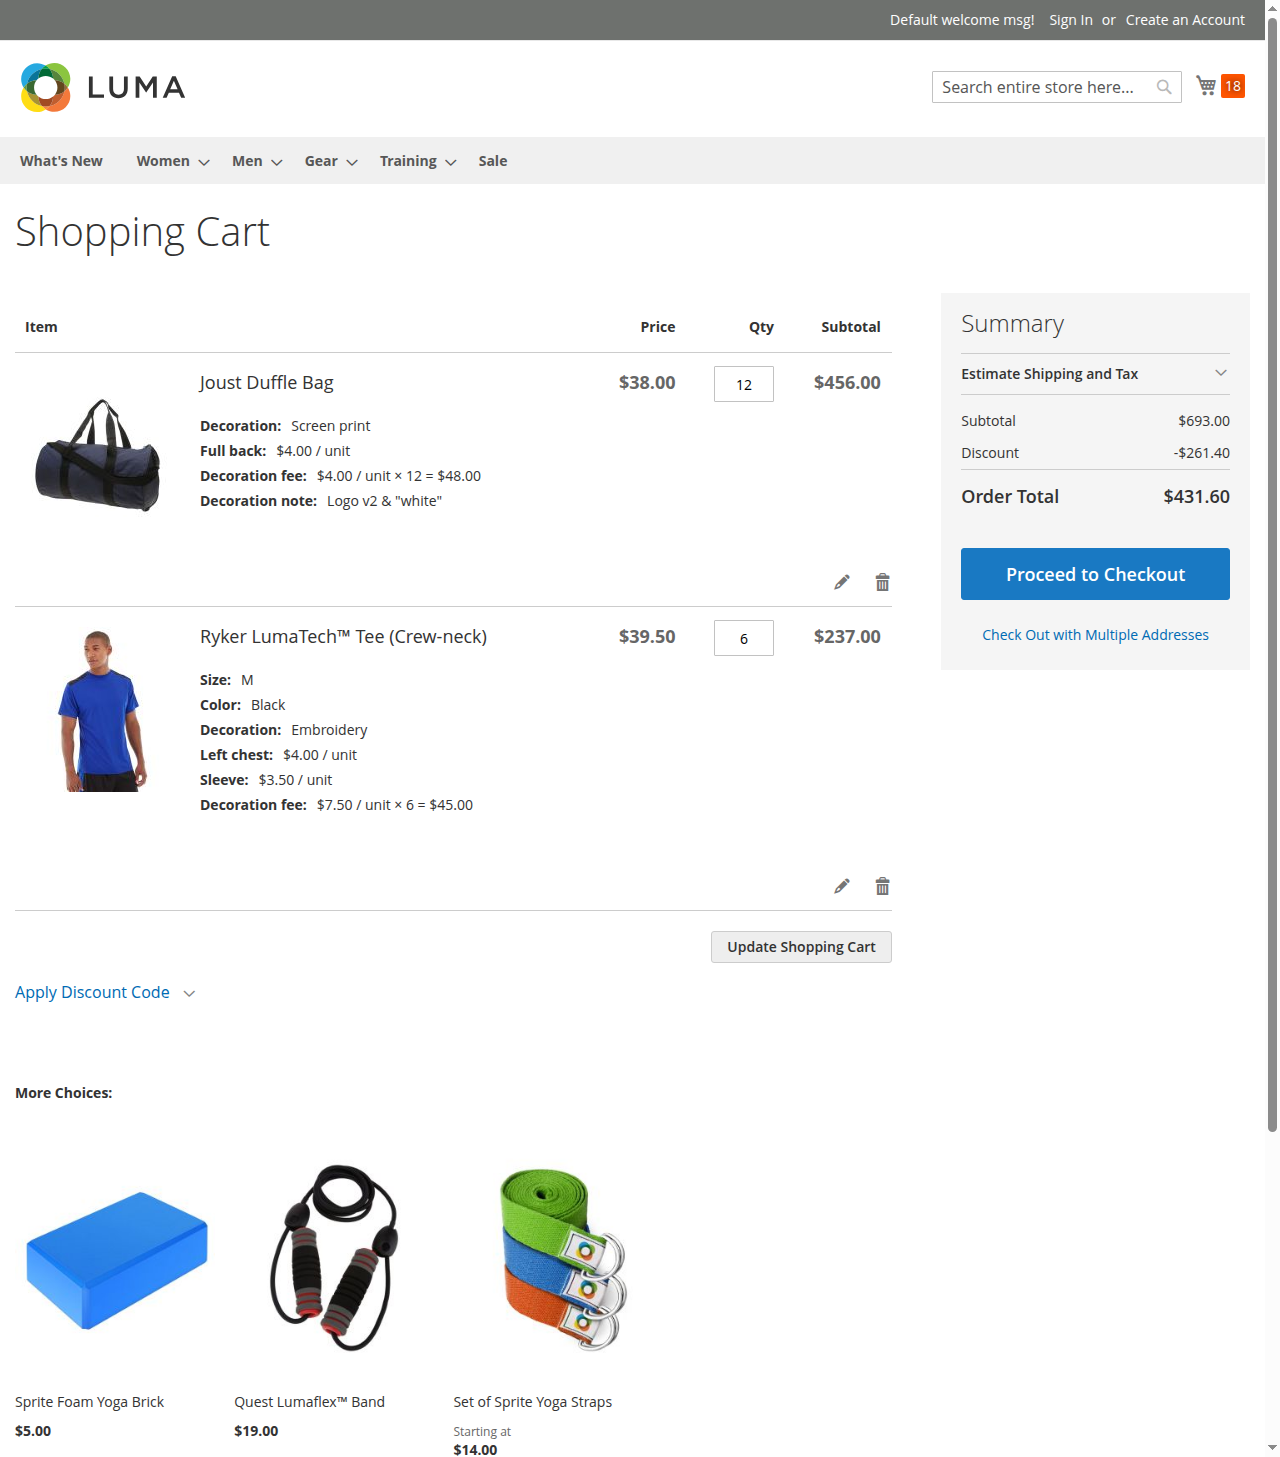
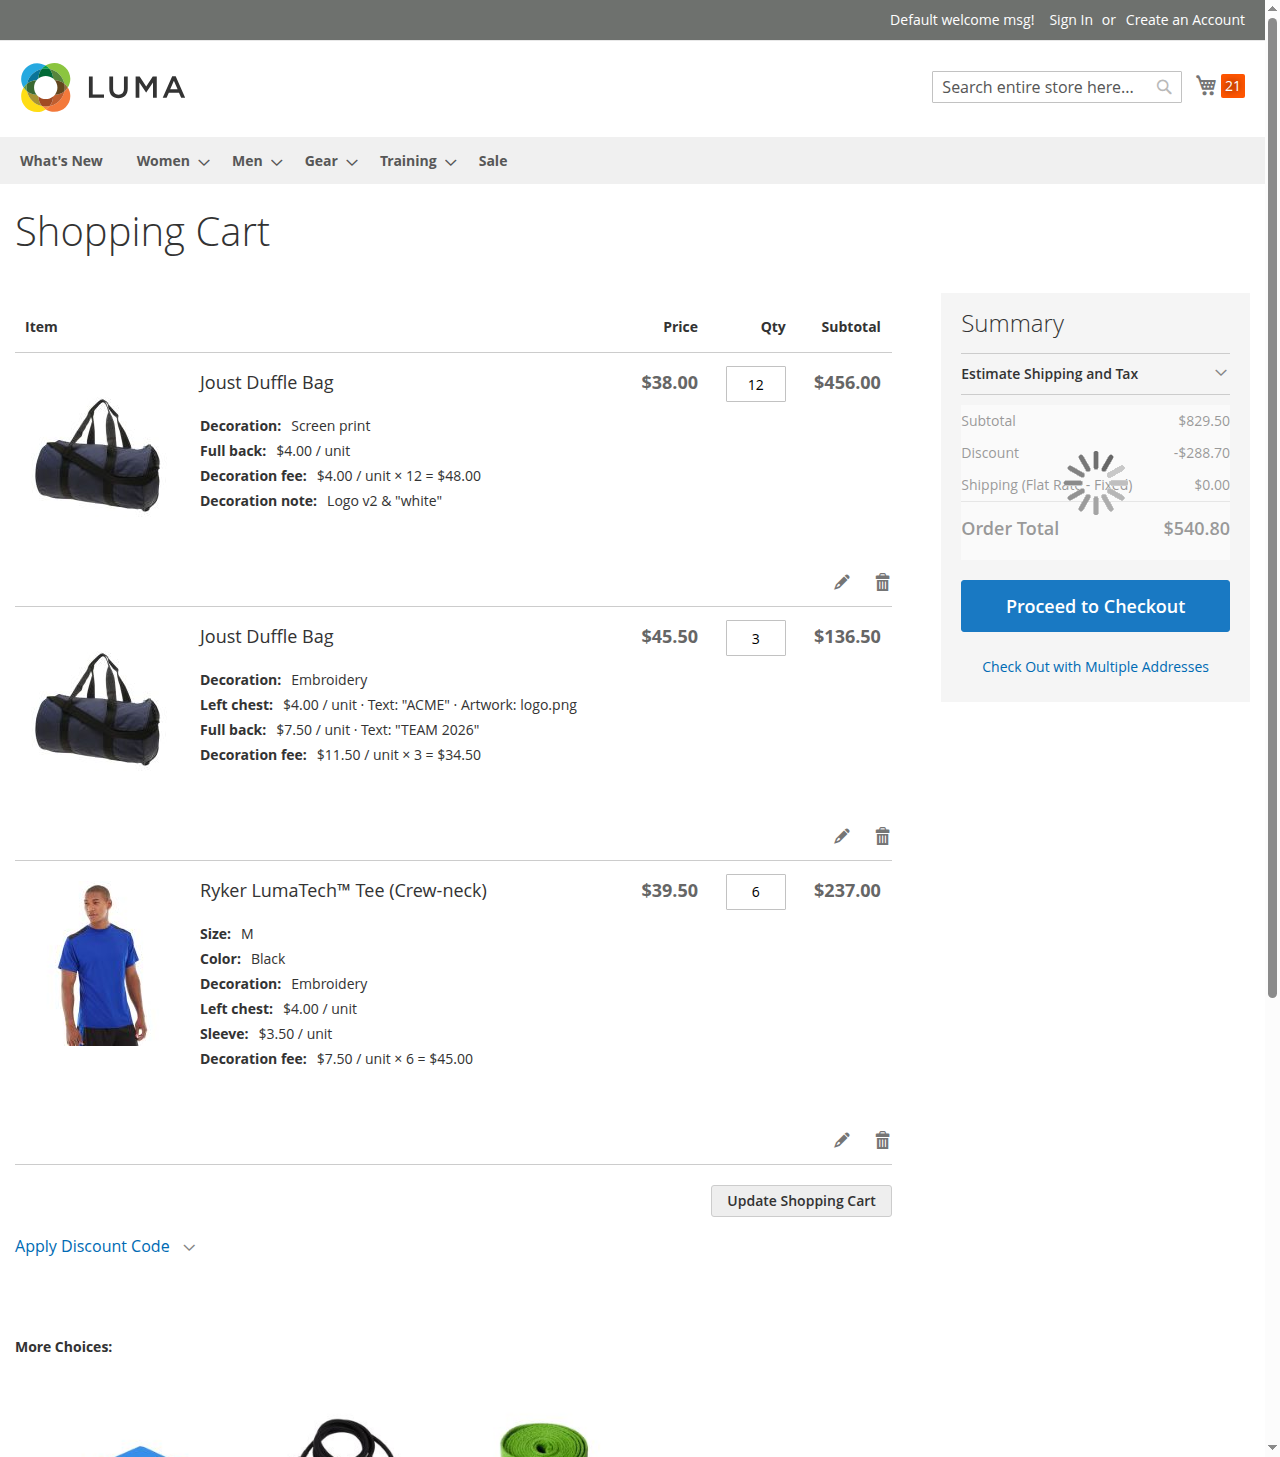
Docs and QA for per-location text and artwork
- storefront-qa.sh: S9 uploads (valid, SVG, HTML as .png, > 10 MB,
  text rules), S10 edit keep/forged token/replace/remove: 42/42
- browser QA: real file input via DevTools (DOM.setFileInputFiles),
  detail rows, client SVG rejection, upload through the form: 16/16
- README / AGENT_NOTES updated; check outputs and screenshots
  regenerated

diff --git a/README.md b/README.md
@@ -4,6 +4,10 @@ Lets a customer choose a decoration method (None / Embroidery / Screen print), 1
 note on a product, and prices the decoration per unit by method, location and quantity tier. Prices are set in admin.
 The decoration and a per-location breakdown carry from cart to checkout to the placed order.
 
+**Beyond the brief (requested extension):** each selected location can also have its own **text to decorate**
+(≤ 100 chars) and an **artwork file** (PNG, JPG or PDF, ≤ 10 MB). Both are optional and don't change the fee. Files
+are listed per item/location with a download link on the admin order view.
+
 Tested on Magento Open Source **2.4.7-p9**, PHP **8.3**, Luma, with sample data.
 
 ## Install
@@ -55,38 +59,48 @@ Brief worked examples, verified in unit tests and on the storefront: Embroidery,
 | Order persistence | `after` plugin on `Quote\Model\Quote\Item\ToOrderItem::convert` | Frozen snapshot in `product_options`: `inkthread_decoration` (structured) plus `additional_options` (display lines). Core renders those in admin/customer/guest order views, emails, invoices, credit memos and PDFs, with no template overrides. Later price changes never alter placed orders. No new DB columns. Trade-off: the fee isn't SQL-queryable for reports. |
 | Edit prefill | `after` plugin on `Catalog\Model\Product::processBuyRequest` | Core drops non-core buy request keys from the preconfigured values. |
 | Admin prices | `system.xml` dynamic rows (`ArraySerialized`) with a validating backend model | One table per method, own tier boundaries, defaults in `config.xml`. Saving or resetting flags active quotes `trigger_recollect` (as core does for catalog price changes), so open carts never show a stale unit price. Rejected: a custom table + admin grid (better for big matrices, too much UI work for the timebox). Scope is global (single store, client decision). |
+| Artwork upload | `Model/Artwork/*`, called from the capture observer | Flat file inputs `inkthread_artwork_<location>` in the add-to-cart form (Luma's AJAX submit already posts `FormData`; the widget sets `multipart/form-data` for a non-AJAX submit). `UploaderFactory` stores the file under `var/inkthread_decoration/artwork/` with a random name, outside the web root. The validator checks size, extension, and the *real* MIME type via `finfo`, so an HTML file renamed `.png` is refused. SVG isn't accepted (scriptable). |
+| Keeping artwork on edit / reorder | encrypted token in the buy request (`ArtworkToken`, Magento encryptor = libsodium AEAD) | The observer writes the stored file back into the buy request as a token before core serialises `info_buyRequest`. The edit page posts it back (with a "Remove" option), and reorder reuses it. A tampered or foreign token is ignored; stored paths are only accepted inside the artwork directory. Request data can never set a path directly (`SelectionFactory::createFromRequestData` vs `createFromStored`). |
+| Artwork download (admin) | `adminhtml` route + `Controller/Adminhtml/Artwork/Download` (ACL `Magento_Sales::actions_view`), block in `order_additional_info` | Served as `application/octet-stream` attachment, never inline. Unknown item/location goes back to the order with an error. |
 | Pricing core | `Selection`, `SelectionValidator`, `FeeCalculator`, `TierQuantityResolver`, `PriceTableParser` | Plain service classes with no app state, unit-tested in isolation. Plugins and observers are thin adapters around them. |
 | Product page | layout + template + view model + jQuery widget | Fieldset in the add-to-cart form, added to both form containers (with/without product options). The widget disables impossible choices and says why inline. Client validation for UX only; the server is authoritative. CSP-safe: module JS file + `x-magento-init` only, no inline script. |
 
 ### Security
 
-The note is the only free text. Core passes non-native item option values unescaped to the checkout summary, which
-renders them with a knockout `html` binding. So notes containing `<` or `>` are refused at input (server and client).
-Other characters are allowed and are escaped by core on the pages that escape. Verified with an `<img onerror>` payload.
+The note and per-location texts are the free-text inputs. Core passes non-native item option values unescaped to the
+checkout summary, which renders them with a knockout `html` binding. So texts containing `<` or `>` are refused at
+input (server and client). Other characters are allowed and are escaped by core on the pages that escape. Verified with
+an `<img onerror>` payload. Uploaded file names are reduced to `[A-Za-z0-9 ._-]` for display. The stored file name is
+random. Uploads are content-checked, stored outside the web root, and only downloadable by admins with order-view
+permission.
 
 ## Checks
 
 | Check | Command | Output |
 |---|---|---|
-| Unit tests (99) | `vendor/bin/phpunit -c dev/tests/unit/phpunit.xml.dist app/code/InkThread/DecorationPricing/Test/Unit` | `docs/checks/phpunit.txt` |
+| Unit tests (132) | `vendor/bin/phpunit -c dev/tests/unit/phpunit.xml.dist app/code/InkThread/DecorationPricing/Test/Unit` | `docs/checks/phpunit.txt` |
 | Magento coding standard | `vendor/bin/phpcs --standard=Magento2 --extensions=php,phtml,xml,js,less app/code/InkThread/DecorationPricing` | `docs/checks/phpcs.txt` |
 | Static analysis | `vendor/bin/phpstan analyse -l 6 -a app/autoload.php app/code/InkThread/DecorationPricing` | `docs/checks/phpstan.txt` |
 | DI compile | `bin/magento setup:di:compile` | `docs/checks/di-compile.txt` |
-| Storefront QA (28 assertions, curl) | `docs/qa/storefront-qa.sh` | `docs/checks/storefront-qa.txt` |
-| Browser QA (13 checks, headless Chrome) | `node docs/qa/browser/pdp-test.mjs` | `docs/checks/browser-qa.txt`, `docs/screenshots/` |
+| Storefront QA (42 assertions, curl, incl. multipart uploads) | `docs/qa/storefront-qa.sh` | `docs/checks/storefront-qa.txt` |
+| Browser QA (16 checks, headless Chrome, incl. a real file upload) | `node docs/qa/browser/pdp-test.mjs` | `docs/checks/browser-qa.txt`, `docs/screenshots/` |
 
 Unit tests cover both worked examples, every tier boundary (11/12, 47/48, 23/24, 95/96), pooled boundaries across
-lines (6+5 vs 6+6 …), multi-location sums and all location rules. Their prices are read from the module's own
+lines (6+5 vs 6+6 …), multi-location sums, all location rules, per-location text rules,
+artwork validation against real PNG/JPEG/PDF/SVG/HTML bytes, file-name sanitising, and artwork tokens against
+tampering with Magento's real encryptor. Their prices are read from the module's own
 `etc/config.xml`, so they also prove the shipped defaults match the brief. The tests were checked against deliberate
 breakage (tier comparison, back-conflict rule, pooling key): each mutation fails them.
 
-Also verified by hand: guest and logged-in orders, guest-cart merge on login, admin and customer order views, guest
+Also verified by hand: admin artwork download (attachment, byte-identical to the upload; a logged-out request gets
+the login page), guest and logged-in orders, guest-cart merge on login, admin and customer order views, guest
 order lookup, confirmation email, invoice, credit memo, invoice PDF, admin price change after ordering, and a
 sample-data cart rule discounting the fee.
 
 ## What could break on a Magento upgrade, and why I think it won't
 
-* **Touch points:** the 4 `after` plugins and 3 events above, `additional_options` rendering in sales templates,
+* **Touch points:** the 4 `after` plugins and 3 events above, `Framework\File\Uploader`, the encryptor, the
+  `order_additional_info` admin container, `additional_options` rendering in sales templates,
   `AbstractFieldArray` / `ArraySerialized` in admin, the quote `trigger_recollect` column, and two Luma layout
   containers (`product.info.form.content`, `product.info.options.wrapper`).
 * **Why it should hold:** these are the same hooks core's own custom options and configurable products use, and they
@@ -106,6 +120,8 @@ sample-data cart rule discounting the fee.
 * No integration/MFTF tests. The Magento-facing adapters (observers, plugins) are covered by the scripted storefront and browser QA, not unit tests.
 * Admin UX is plain dynamic rows; a location × tier matrix grid would be easier to maintain.
 * The fee is not in its own order column, so reporting needs the JSON snapshot.
+* Artwork: no customer-side download link; no cleanup of files from abandoned carts (needs a cron); stored on local
+  `var/`, so multi-node or remote storage (S3) setups need a shared or remote filesystem. Files are not virus-scanned.
 
 ## Sandbox notes (not module issues)
 

diff --git a/AGENT_NOTES.md b/AGENT_NOTES.md
@@ -44,6 +44,17 @@
    - It deleted the compiled Luma CSS to force a LESS rebuild, not knowing web requests run in production mode
      in this sandbox (no on-demand static generation). The storefront was unstyled until it redeployed.
 
+8. **Artwork extension (requested after step 6): QA and UI slips, caught by the agent.**
+   - The curl edit test posted the artwork token straight from the HTML attribute. `escapeHtmlAttr` encodes base64
+     characters as entities, so "keep the file" seemed broken. A browser decodes them; the test now does too.
+   - A download check right after login hit the admin's first-request redirect to the dashboard and looked like a
+     failure.
+   - The admin artwork table showed a 45-byte file as "0.0 KB". Noticed in a screenshot.
+   - The download controller first redirected errors to the referer, which for a direct link was the storefront
+     home page. It now goes back to the order.
+   - Luma only sets `multipart/form-data` on the add-to-cart form for products with native file options. The AJAX
+     submit didn't need it, but a non-AJAX submit would have silently dropped files. The widget now sets it.
+
 ## Where the agent went beyond the requirement
 
 Kept, but worth a reviewer's judgement:
@@ -54,6 +65,8 @@ Kept, but worth a reviewer's judgement:
   locations without a price table. The brief has no such case with the shipped prices.
 * **"(tier for N matching units)"** in the breakdown when lines are pooled.
 * **Revertable data patch**, and `@api` on the price-table provider interface.
+* **Per-location text and artwork upload**: requested by Martin after the core build (not in the brief), see
+  PLAN.md §10.
 
 Sandbox change made by the agent (not in the module): admin secret URL keys turned off
 (`admin/security/use_form_key = 0`) to script admin checks.
